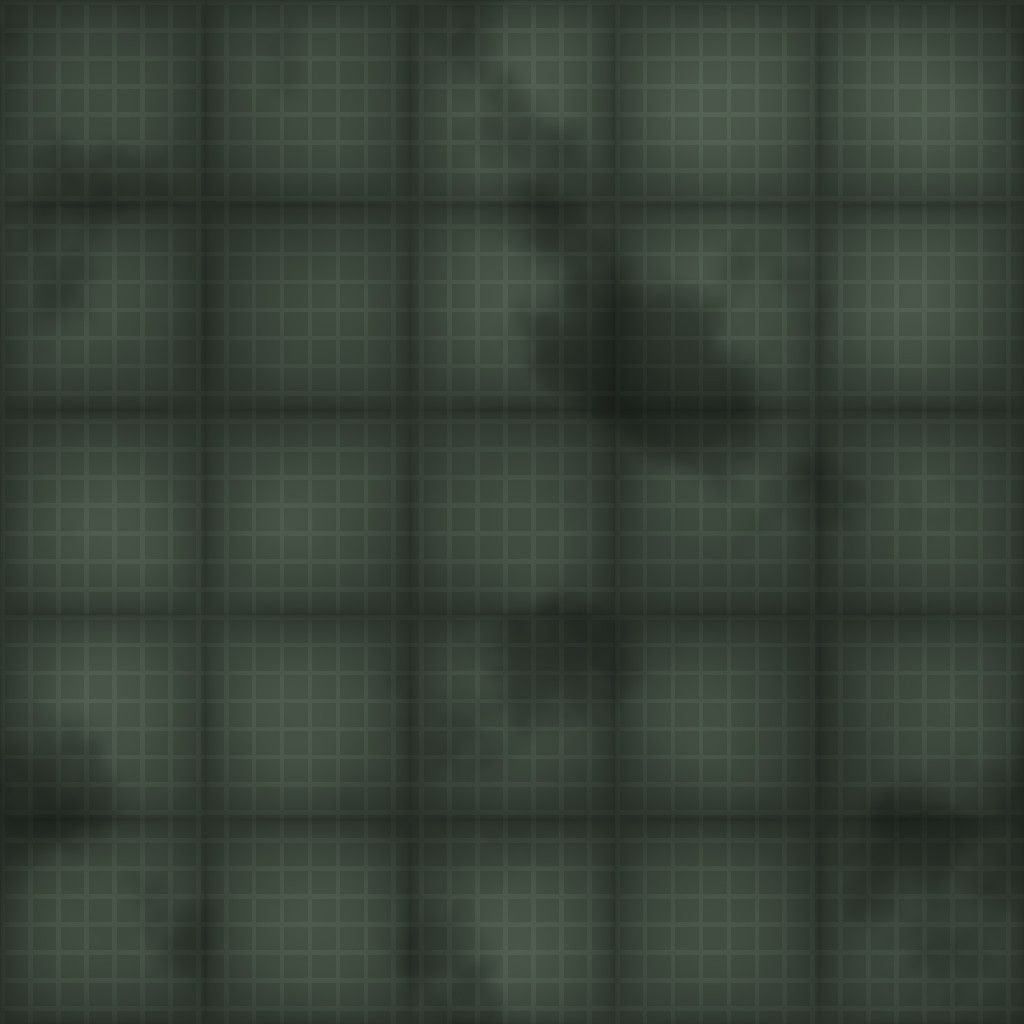
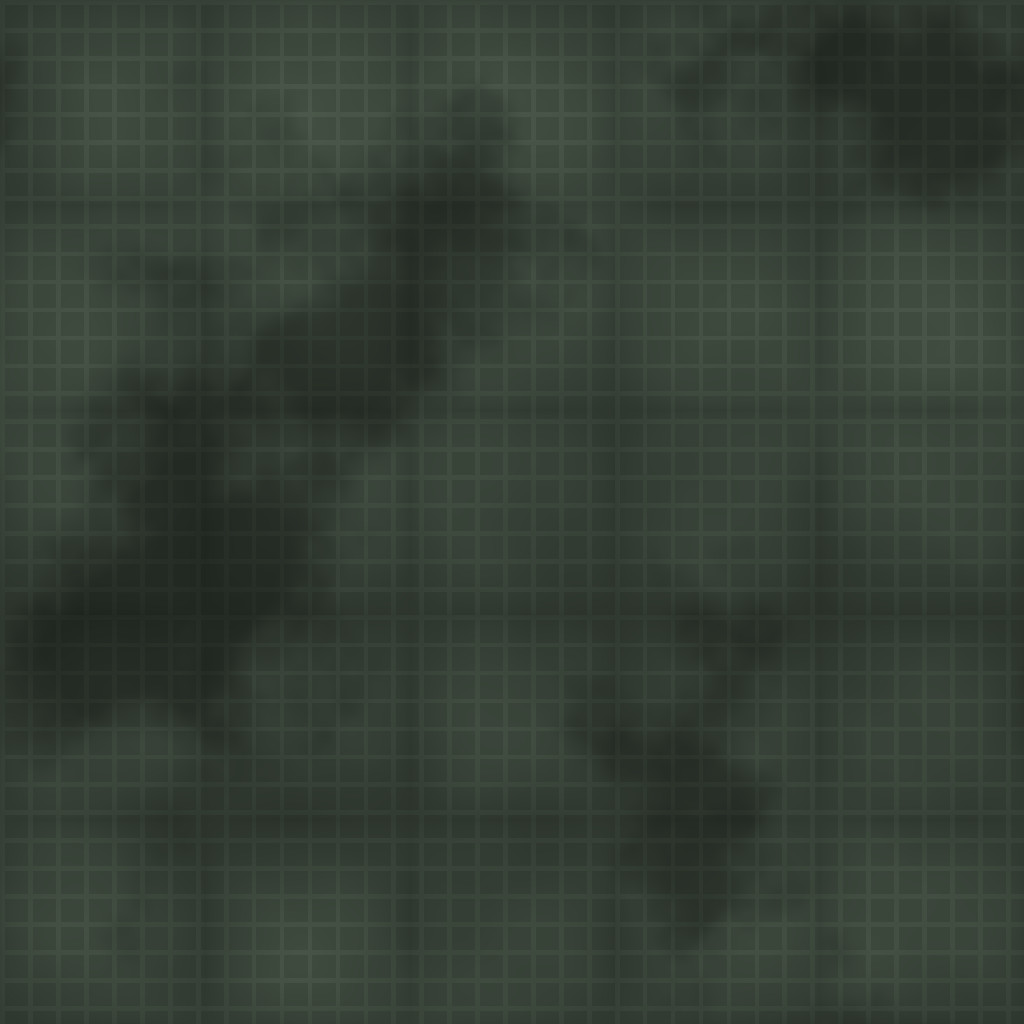
Docs, production build, resume support, character polish, font fixes
Claude-Session: https://claude.ai/code/session_01GHfF2m2v4uaf2dWEFkcrk5

diff --git a/game/src/chars/humanoid.js b/game/src/chars/humanoid.js
@@ -64,6 +64,19 @@ function skinnedTube({ path, radii, seg = 16, bones, boneIndex, sigma = 0.06, re
   return g;
 }
 
+const plaidCache = {};
+/** a soft flannel plaid: broad bands over a brushed weave, nothing like a grid */
+function plaidMaterial(color) {
+  if (plaidCache[color]) return plaidCache[color].clone();
+  const c = document.createElement('canvas'); c.width = c.height = 256; const x = c.getContext('2d'); const base = new THREE.Color(color); const css = (k) => `rgb(${Math.round(Math.min(1, base.r * k) * 255)},${Math.round(Math.min(1, base.g * k) * 255)},${Math.round(Math.min(1, base.b * k) * 255)})`;
+  x.fillStyle = css(1); x.fillRect(0, 0, 256, 256);
+  for (const [pos, wd, k, al] of [[40, 54, 0.62, 0.55], [168, 30, 0.7, 0.5], [112, 10, 1.3, 0.35]]) { x.fillStyle = css(k); x.globalAlpha = al; x.fillRect(pos, 0, wd, 256); x.fillRect(0, pos, 256, wd); }
+  x.globalAlpha = 1; x.strokeStyle = 'rgba(255,240,220,0.18)'; x.lineWidth = 2; for (const p of [20, 96, 150, 220]) { x.beginPath(); x.moveTo(p, 0); x.lineTo(p, 256); x.moveTo(0, p); x.lineTo(256, p); x.stroke(); }
+  const img = x.getImageData(0, 0, 256, 256); for (let i = 0; i < img.data.length; i += 4) { const n = (Math.random() - 0.5) * 16; img.data[i] += n; img.data[i + 1] += n; img.data[i + 2] += n; } x.putImageData(img, 0, 0);
+  const t = new THREE.CanvasTexture(c); t.colorSpace = THREE.SRGBColorSpace; t.wrapS = t.wrapT = THREE.RepeatWrapping; t.anisotropy = 4;
+  const m = new THREE.MeshStandardMaterial({ map: t, roughness: 0.93, color: 0xcfc4bc }); plaidCache[color] = m; return m.clone();
+}
+
 export class Humanoid {
   /**
    * opts: { kind:'jo'|'searcher'|'mara', outfit:'flannel'|'tee'|'parka', shirt, pants, skin, boots, hood:bool, wet:0..1 }
@@ -109,7 +122,7 @@ export class Humanoid {
 
     // face first (its skin material is shared by neck / forearms / hands)
     this.face = buildHead(this.kind, opts.face || {});
-    this.headBone.add(this.face.root); this.face.root.position.set(0, 0.092, 0.012); this.face.root.scale.setScalar(1.13);
+    this.headBone.add(this.face.root); this.face.root.position.set(0, 0.088, 0.012); this.face.root.scale.setScalar(this.kind === 'searcher' ? 1.16 : 1.24);
     this.buildMeshes();
     if (opts.hood) this.buildHood();
     // hands
@@ -141,8 +154,8 @@ export class Humanoid {
     const ring = (y, rx, rz, zo = 0) => ({ p: V(0, y, zo), r: [rx * puff, rz * puff] });
     const sh = B.shoulder;
     const t = [ring(hipsY - 0.08 * H, B.hip[0] * 0.95, B.hip[1] * 0.98), ring(hipsY, B.hip[0], B.hip[1]), ring(hipsY + 0.08 * H, B.waist[0], B.waist[1], 0.003), ring(hipsY + 0.17 * H, B.waist[0] * 1.04, B.waist[1] * 1.02),
-      ring(chestY + 0.0, B.chest[0] * 1.0, B.chest[1] * 1.06, 0.006), ring(chestY + 0.08 * H, B.chest[0] * 1.06, B.chest[1] * 1.06, 0.004), ring(neckY - 0.07 * H, sh * 0.98, B.chest[1] * 0.92),
-      ring(neckY - 0.035 * H, sh * 0.78, B.chest[1] * 0.78), ring(neckY - 0.005 * H, B.neck * 2.0, B.neck * 1.45), ring(neckY + 0.012, B.neck * 1.3 * puff * 0.92, B.neck * 1.2 * puff * 0.9)];
+      ring(chestY + 0.0, B.chest[0] * 1.0, B.chest[1] * 1.06, 0.006), ring(chestY + 0.08 * H, B.chest[0] * 1.06, B.chest[1] * 1.06, 0.004), ring(neckY - 0.07 * H, sh * 0.88, B.chest[1] * 0.92),
+      ring(neckY - 0.035 * H, sh * 0.66, B.chest[1] * 0.78), ring(neckY - 0.005 * H, B.neck * 2.0, B.neck * 1.45), ring(neckY + 0.012, B.neck * 1.3 * puff * 0.92, B.neck * 1.2 * puff * 0.9)];
     const torsoBones = [seg('hips', 'spine'), seg('spine', 'chest'), seg('chest', 'neck'), seg('neck', 'head')];
     const torsoGeo = skinnedTube({ path: t.map((x) => x.p), radii: t.map((x) => x.r), seg: 28, bones: torsoBones, boneIndex: bi, sigma: 0.07, ref: V(1, 0, 0), capEnds: false, uvTile: 0.45 });
     this.torso = this.skinMesh(torsoGeo, shirtMat);
@@ -159,8 +172,8 @@ export class Humanoid {
       const r0 = B.arm * puff * (type === 'parka' ? 1.25 : 1);
       const sleeveEnd = o.sleeveEnd ?? (type === 'tee' ? 0.38 : 1.0);
       const up = (f) => V().lerpVectors(sh, el, f), lo = (f) => V().lerpVectors(el, wr, f);
-      const pts = [sh.clone().add(V(-s * 0.075, 0.02, 0)), sh.clone().add(V(-s * 0.02, 0.012, 0)), up(0.12), up(0.5), up(0.92), el.clone(), lo(0.12), lo(0.5), lo(0.9), wr.clone()];
-      const rad = [[r0 * 1.2, r0 * 1.2], [r0 * 1.22, r0 * 1.2], [r0 * 1.12, r0 * 1.08], [r0 * 1.02, r0 * 1.0], [r0 * 0.94, r0 * 0.93], [r0 * 0.9, r0 * 0.9], [r0 * 0.9, r0 * 0.88], [r0 * 0.78, r0 * 0.75], [r0 * 0.66, r0 * 0.64], [r0 * 0.6, r0 * 0.58]];
+      const pts = [sh.clone().add(V(-s * 0.05, 0.012, 0)), sh.clone().add(V(-s * 0.012, 0.008, 0)), up(0.12), up(0.5), up(0.92), el.clone(), lo(0.12), lo(0.5), lo(0.9), wr.clone()];
+      const rad = [[r0 * 1.0, r0 * 1.0], [r0 * 1.12, r0 * 1.1], [r0 * 1.12, r0 * 1.08], [r0 * 1.02, r0 * 1.0], [r0 * 0.94, r0 * 0.93], [r0 * 0.9, r0 * 0.9], [r0 * 0.9, r0 * 0.88], [r0 * 0.78, r0 * 0.75], [r0 * 0.66, r0 * 0.64], [r0 * 0.6, r0 * 0.58]];
       const cut = Math.max(2, Math.round(pts.length * sleeveEnd));
       const cloth = skinnedTube({ path: pts.slice(0, cut), radii: rad.slice(0, cut), seg: 14, bones: aBones, boneIndex: bi, sigma: 0.05, ref: V(1, 0, 0), capEnds: false, uvTile: 0.4 });
       this.skinMesh(cloth, shirtMat);
@@ -195,7 +208,7 @@ export class Humanoid {
   getSkinMat() { if (!this._bodySkin) { this._bodySkin = this.face.skin.clone(); this._bodySkin.vertexColors = false; this._bodySkin.needsUpdate = true; } return this._bodySkin; }
   makeShirt() {
     const o = this.opts; const type = o.outfit || 'flannel';
-    if (type === 'flannel') { const m = pbr('fabric_wool', { key: 'flan' + (o.shirt || ''), tint: o.shirt ?? 0xc27a62, normal: 1.0 }).clone(); m.roughness = 0.92; return m; }
+    if (type === 'flannel') { return plaidMaterial(o.shirt ?? 0xc27a62); }
     if (type === 'raincoat') { const m = solid(o.shirt ?? 0xe8b81c, { rough: 0.38 }).clone(); return m; }
     if (type === 'tee') { const m = solid(o.shirt ?? 0xe8e2d0, { rough: 0.9 }).clone(); return m; }
     if (type === 'parka') { const m = pbr('parka', { key: 'parkaN', tint: 0x55604f, normal: 1.4, wet: 0.7 }).clone(); m.roughness = 0.5; m.color.setRGB(0.9, 0.95, 0.88); return m; }
@@ -210,7 +223,7 @@ export class Humanoid {
     const p = hg.attributes.position;
     for (let i = 0; i < p.count; i++) { const z = p.getZ(i), y = p.getY(i); p.setZ(i, z * 1.18 - 0.02); p.setY(i, y * 1.12); if (z > 0.06 && y < 0.1) { p.setZ(i, z * 1.25 + 0.03); } }
     hg.computeVertexNormals();
-    const mat = this.torso.material.clone(); mat.side = THREE.DoubleSide;
+    const mat = solid(0x424b3f, { rough: 0.7 }).clone(); mat.side = THREE.DoubleSide;
     const hood = new THREE.Mesh(hg, mat); hood.position.set(0, 0.095, -0.01); hood.castShadow = true; this.headBone.add(hood); this.hood = hood;
     // dark void inside so the face reads as "not there"
     const inner = new THREE.Mesh(new THREE.SphereGeometry(0.1, 20, 14), new THREE.MeshBasicMaterial({ color: 0x030405 })); inner.scale.set(0.9, 1.15, 0.9); inner.position.set(0, 0.095, 0.02); inner.visible = false; this.headBone.add(inner); this.hoodVoid = inner;

diff --git a/game/src/levels/loop.js b/game/src/levels/loop.js
@@ -64,7 +64,7 @@ export class Loop extends Chapter {
   buildParty(B, game, M) {
     const G = LOOPG, rng = new RNG(5);
     // the banner across the hall: HAPPY BIRTHDAY MAR
-    const bt = canvasTex(1024, 128, (c, w, h) => { c.clearRect(0, 0, w, h); const txt = 'HAPPY BIRTHDAY MAR'; const cols = ['#d94a3a', '#e8b81c', '#4a7ac8', '#4aa86a', '#c85aa0']; c.font = "700 74px 'Special Elite', monospace"; c.textAlign = 'center'; c.textBaseline = 'middle'; let x = 56; for (let i = 0; i < txt.length; i++) { const ch = txt[i]; if (ch === ' ') { x += 30; continue; } c.fillStyle = cols[i % cols.length]; c.fillText(ch, x, 66 + Math.sin(i * 0.7) * 6); x += 52; } });
+    const bt = canvasTex(1024, 128, (c, w, h) => { c.clearRect(0, 0, w, h); const txt = 'HAPPY BIRTHDAY MAR'; const cols = ['#d94a3a', '#e8b81c', '#4a7ac8', '#4aa86a', '#c85aa0']; c.font = "700 74px Elite, monospace"; c.textAlign = 'center'; c.textBaseline = 'middle'; let x = 56; for (let i = 0; i < txt.length; i++) { const ch = txt[i]; if (ch === ' ') { x += 30; continue; } c.fillStyle = cols[i % cols.length]; c.fillText(ch, x, 66 + Math.sin(i * 0.7) * 6); x += 52; } });
     const ban = new THREE.Mesh(new THREE.PlaneGeometry(3.0, 0.4), new THREE.MeshStandardMaterial({ map: bt, transparent: true, side: THREE.DoubleSide, roughness: 0.8 })); ban.position.set(0, 2.15, 9.0); game.root.add(ban); this.banner = ban;
     const cord = new THREE.Mesh(new THREE.CylinderGeometry(0.006, 0.006, 3.1, 4), solid(0xd8d0c0)); cord.rotation.z = Math.PI / 2; cord.position.set(0, 2.38, 9.0); game.root.add(cord);
     // balloons: clusters in the corners and floating at the ceiling
@@ -111,7 +111,7 @@ export class Loop extends Chapter {
     const pop = new THREE.Mesh(new THREE.CircleGeometry(0.08, 24), new THREE.MeshStandardMaterial({ color: 0x111111, transparent: true, opacity: 0.35, side: THREE.DoubleSide })); pop.position.set(0, 0.78, 0.1); mic.add(pop);
     chair(B, 0, -16.4, Math.PI, { mat: M.wood, cushion: M.red });
     const red = new THREE.Mesh(new THREE.BoxGeometry(0.34, 0.12, 0.03), new THREE.MeshStandardMaterial({ color: 0x300000, emissive: 0xff1a1a, emissiveIntensity: 1.2 })); red.position.set(0, 2.2, z1 - 0.02); red.rotation.y = 0; game.root.add(red); this.recLamp = red;
-    const rt = new THREE.Mesh(new THREE.PlaneGeometry(0.3, 0.06), new THREE.MeshBasicMaterial({ map: canvasTex(256, 48, (c, w, h) => { c.fillStyle = '#220000'; c.fillRect(0, 0, w, h); c.fillStyle = '#ff6a5a'; c.font = "700 30px 'Special Elite', monospace"; c.textAlign = 'center'; c.fillText('RECORDING', w / 2, 34); }) })); rt.position.set(0, 2.2, z1 + 0.0 + 0.0 - 0.0); rt.position.z = z0 + 0.12; rt.rotation.y = 0; game.root.add(rt);
+    const rt = new THREE.Mesh(new THREE.PlaneGeometry(0.3, 0.06), new THREE.MeshBasicMaterial({ map: canvasTex(256, 48, (c, w, h) => { c.fillStyle = '#220000'; c.fillRect(0, 0, w, h); c.fillStyle = '#ff6a5a'; c.font = "700 30px Elite, monospace"; c.textAlign = 'center'; c.fillText('RECORDING', w / 2, 34); }) })); rt.position.set(0, 2.2, z1 + 0.0 + 0.0 - 0.0); rt.position.z = z0 + 0.12; rt.rotation.y = 0; game.root.add(rt);
     this.boothLight = game.lights.add({ pos: [0, 2.0, -17.5], color: 0xff6a4a, intensity: 5, distance: 6, tag: 'booth', decay: 1.8, shadow: false, on: false });
     this.boothDesk = game.lights.add({ pos: [0.2, 1.2, -17.6], color: 0xffd9a0, intensity: 3, distance: 4, tag: 'booth', decay: 1.9, shadow: false, on: false });
     // the phone

diff --git a/game/src/story/draw.js b/game/src/story/draw.js
@@ -213,7 +213,7 @@ export function owlKeys(ctx, w, h) {
 export function flyer(ctx, w, h) {
   paperFill(ctx, w, h, '#efe9d8');
   ctx.fillStyle = '#161616'; ctx.textAlign = 'center';
-  ctx.font = "900 150px 'Special Elite', Impact, monospace"; ctx.fillText('MISSING', w / 2, 170);
+  ctx.font = "900 150px Elite, Impact, monospace"; ctx.fillText('MISSING', w / 2, 170);
   // halftone portrait
   const px = w / 2 - 210, py = 205, pw = 420, ph = 470; const step = 7;
   const rr = (() => { let a = 99; return () => (a = (a * 16807) % 2147483647) / 2147483647; })();
@@ -230,14 +230,14 @@ export function flyer(ctx, w, h) {
     if (r > 0.4) { ctx.beginPath(); ctx.arc(px + x, py + y, r, 0, 7); ctx.fill(); }
   }
   ctx.strokeStyle = '#161616'; ctx.lineWidth = 5; ctx.strokeRect(px - 4, py - 4, pw + 8, ph + 8);
-  ctx.font = "700 44px 'Special Elite', monospace"; ctx.fillText('JONAH “JO” LINDEN, 22', w / 2, 735);
-  ctx.font = "26px 'Special Elite', monospace";
+  ctx.font = "700 44px Elite, monospace"; ctx.fillText('JONAH “JO” LINDEN, 22', w / 2, 735);
+  ctx.font = "26px Elite, monospace";
   ['Last seen Mon. Feb 11, about 3 AM,', 'north bay, Halden Lake. 5′11″, brown curly hair.', 'Yellow rain jacket. Hums when he walks.', 'He is not in any trouble. He is just late.'].forEach((t, i) => ctx.fillText(t, w / 2, 785 + i * 36));
-  ctx.font = "600 34px 'Special Elite', monospace"; ctx.fillText('Call Mara — 555 0143', w / 2, 960);
+  ctx.font = "600 34px Elite, monospace"; ctx.fillText('Call Mara — 555 0143', w / 2, 960);
   // hand-written, later, in a different pen
   ctx.fillStyle = '#26358a'; ctx.font = "34px Caveat, cursive"; ctx.save(); ctx.translate(w / 2, 1005); ctx.rotate(-0.02); ctx.fillText('(porch light is on)', 0, 0); ctx.restore();
   // tear-off tabs, all gone but one
-  ctx.fillStyle = '#161616'; const tw = (w - 60) / 8; ctx.font = "16px 'Special Elite', monospace";
+  ctx.fillStyle = '#161616'; const tw = (w - 60) / 8; ctx.font = "16px Elite, monospace";
   for (let i = 0; i < 8; i++) { const x0 = 30 + i * tw; ctx.strokeStyle = '#555'; ctx.setLineDash([5, 5]); ctx.beginPath(); ctx.moveTo(x0, 1030); ctx.lineTo(x0, h); ctx.stroke(); ctx.setLineDash([]);
     if (i === 5) { ctx.save(); ctx.translate(x0 + tw / 2, 1085); ctx.rotate(-Math.PI / 2); ctx.fillText('MARA 555 0143', 0, 0); ctx.restore(); } else { ctx.fillStyle = '#d9d2bd'; ctx.fillRect(x0 + 2, 1032, tw - 4, h - 1032); ctx.fillStyle = '#161616'; } }
   ctx.textAlign = 'left';

diff --git a/game/src/story/lodgeStory.js b/game/src/story/lodgeStory.js
@@ -24,6 +24,8 @@ export class LodgePhase {
     g.wait(1.2).then(() => { L.doors.front.toggle(false); g.audio.sfx('door_close', { pos: V(-0.3, 1.2, 5.5), vol: 0.7 }); });
     g.ui.objective('Find Jo.');
     if (opts.skipTo) { this.skipTo(opts.skipTo); return; }
+    if (opts.resumeAt) { this.restore(); return; }
+    g.saveCheckpoint('lodge:start', { x: -0.3, y: 0, z: 4.2, yaw: Math.PI });
     await g.wait(2.5);
     await w.think('Jo?');
     await g.wait(1.0);
@@ -279,6 +281,15 @@ export class LodgePhase {
   leaveHouse() {
     const w = this.w, g = this.g; if (this.fired.leave) return; this.fired.leave = true;
     g.wait(2.2).then(() => { w.setPhase('search'); });
+  }
+
+  /** coming back from a save: the house as she left it */
+  restore() {
+    const g = this.g, w = this.w, L = w.lodge, F = g.flags, G = w.ground;
+    if (F.joKey) L.doors.jo.unlock(); if (F.studyKey) L.doors.study.unlock(); if (F.backKey) L.doors.back.unlock();
+    if (F.memory1Done) this.memory1Done = true; if (F.sawScore) this.fired.score = true; if (F.intrusionSurvived) this.fired.intrusionStarted = true; if (F.phoneAnswered) this.fired.study = true;
+    L.doors.front.toggle(false); for (const l of [G.lamps.hall, G.lamps.livingFloor]) l && l.set(true);
+    g.ui.objective(F.backKey ? 'The back door. Then the trail to the boathouse.' : (F.tinOpen ? 'The back door.' : (F.studyKey ? 'Dad’s study.' : (F.intrusionSurvived ? 'Play Jo’s tune on the piano.' : (F.joKey ? 'Jo’s room.' : (this.memory1Done ? 'Look in the cookie jar.' : 'Find Jo.'))))), true);
   }
 
   skipTo(step) {

diff --git a/game/src/story/finale.js b/game/src/story/finale.js
@@ -36,9 +36,19 @@ export class FinalPhase {
     g.hands.hold('L', null); g.hands.holdFlashlight(); g.lights.flashOn = false;
     g.ui.chapterCard('VII', 'GOODBYE', '', 4);
     g.fadeTo(0, 7, 0xfff3d8);
+    const rid = opts.resumeAt && opts.resumeAt.id;
+    if (rid === 'final:dock' || rid === 'final:gift') { this.fastForward(rid, opts.resumeAt); return; }
     await g.wait(5);
     g.ui.objective('The end of the dock.');
     this.stage = 'walk';
+  }
+
+  /** from a save: Jo has gone, the lantern is out, she is walking home */
+  fastForward(rid, at) {
+    const w = this.w, g = this.g, P = g.player; this.fired.talk = true; this.jo.root.visible = false; this.stage = 'home'; P.canRun = true; P.walkMul = 0.9; this.setupPorch();
+    P.teleport(at.x, at.y ?? 0, at.z, at.yaw ?? 0);
+    if (rid === 'final:gift') { w.porch.set(false); this.fired.porch = true; const G = w.ground; [G.lamps.hall, G.lamps.kitchen, G.lamps.livingFloor, G.lamps.livingTable].filter(Boolean).forEach((l) => l.set(true)); this.boxHeard = true; this.setupInside(); g.ui.objective('Dad’s piano.', true); this.giftIt && this.giftIt.remove(); }
+    else g.ui.objective('Go up to the house.', true);
   }
 
   // ------------------------------------------------------------------------------------------------------------------------

diff --git a/game/src/story/notes.js b/game/src/story/notes.js
@@ -97,7 +97,7 @@ export const NOTES = {
   },
   clipping: {
     kind: 'note', style: 'print', rot: 1.3, list: 'Clipping — Halden Weekly',
-    html: `<h3 style="font-family:'IM Fell English',serif">SEARCH ON HALDEN LAKE SUSPENDED</h3>
+    html: `<h3 style="font-family:Fell,serif">SEARCH ON HALDEN LAKE SUSPENDED</h3>
       <p>After nine days and some 1,400 volunteer hours, the sheriff’s office announced Thursday that active efforts to locate Jonah Linden, 22, have ended. Linden was last seen February 11 near the north bay, where the lake’s ice is known to shift.</p>
       <p>Linden is the son of the late Walter Linden, a sound engineer who built the lakeside lodge. His sister, Mara Linden, 28, said she would “keep looking.” <i>Neighbours say the porch light at the Linden lodge has been left on every night since.</i></p>`,
   },

diff --git a/game/src/main.js b/game/src/main.js
@@ -16,6 +16,7 @@ addEventListener('pointerdown', unlock); addEventListener('keydown', unlock);
 window.__game = game;
 
 await game.init();
+try { await Promise.all(['16px Elite', '16px Cormorant', 'italic 16px Cormorant', '600 16px Cormorant', '500 16px Caveat', '600 16px Caveat', '16px Fell', 'italic 16px Fell'].map((f) => document.fonts.load(f))); } catch (e) { /* fonts are a nicety: canvas text falls back to serif */ }
 const q = new URLSearchParams(location.search);
 if (q.get('test') === 'lodge') { const { TestLodge } = await import('./levels/test_lodge.js'); await game.loadChapter(new TestLodge()); }
 else if (q.get('test') === 'halden') { const { Halden } = await import('./levels/halden.js'); await game.loadChapter(new Halden(q.get('phase') || 'prologue', { skipIntro: q.has('skipintro'), season: q.get('season') || 'winter' })); }

diff --git a/game/src/gfx/renderer.js b/game/src/gfx/renderer.js
@@ -274,7 +274,7 @@ export class Gfx {
     r.shadowMap.enabled = true;
     r.shadowMap.autoUpdate = true;
     r.setClearColor(0x05070a, 1);
-    this.info = r.info;
+    this.info = r.info; r.info.autoReset = false;   // accumulate over every pass of a frame; reset at the start of render()
     this.maxAniso = r.capabilities.getMaxAnisotropy();
 
     this.quad = new THREE.Mesh(new THREE.BufferGeometry(), null);
@@ -381,6 +381,7 @@ export class Gfx {
 
   // ---- frame ----------------------------------------------------------------------------------------------------
   render(scene, camera, dt, scatterDir) {
+    this.renderer.info.reset();
     const r = this.renderer, t = this.targets, p = this.p, fx = this.fx;
     this.time += dt;
     // grade easing

diff --git a/game/src/story/search.js b/game/src/story/search.js
@@ -23,6 +23,7 @@ export class SearchPhase {
     for (let i = 0; i < w.lampPosts.length; i++) if (g.flags['lamp' + i]) w.lampPosts[i].set(true);
     this.hi = g.flags.lampHi ?? -1;
     if (opts.skipTo) { this.skipTo(opts.skipTo); }
+    if (opts.resumeAt) { const lp = this.w.lampPosts[Math.max(0, this.hi)]; this.lastSafe = this.hi >= 0 ? { x: lp.pos.x, z: lp.pos.z + 1.6 } : null; if (this.hi >= 1) this.startPatrol(); g.ui.objective(g.flags.boatKey ? 'Follow the trail to the boathouse.' : 'Follow the trail to the boathouse.', true); if (g.flags.boathouseDone) { /* back from below? */ } }
     if (!opts.resumeAt && !opts.skipTo) {
       g.ui.chapterCard('II', 'THE SEARCH', 'Feb 11', 4.5);
       await g.wait(3.5);

diff --git a/game/src/levels/halden.js b/game/src/levels/halden.js
@@ -169,6 +169,7 @@ export class Halden extends Chapter {
     if (this.phaseObj && this.phaseObj.dispose) this.phaseObj.dispose();
     this.phaseName = name; this.game.flags.phase = name;
     const P = PHASES[name]; this.phaseObj = new P(this, opts); this.phaseObj.start(opts);
+    if (opts.resumeAt && opts.resumeAt.x !== undefined) { const r = opts.resumeAt; this.game.player.teleport(r.x, r.y ?? 0, r.z, r.yaw ?? 0); }
   }
   onLampLit(lp) { this.phaseObj && this.phaseObj.onLamp && this.phaseObj.onLamp(lp); this.checkpoint('lamp:' + lp.id, { x: lp.pos.x, z: lp.pos.z + 1.5 }); }
   checkpoint(id, at) { this.game.saveCheckpoint && this.game.saveCheckpoint(id, at); }

diff --git a/game/src/core/engine.js b/game/src/core/engine.js
@@ -170,7 +170,7 @@ export class Game extends Emitter {
   /** persist progress */
   saveCheckpoint(id, at) {
     const p = this.player;
-    this.lastCheckpoint = { id, x: at?.x ?? p.pos.x, z: at?.z ?? p.pos.z, y: at?.y, yaw: at?.yaw ?? p.yaw };
+    this.lastCheckpoint = { id, x: at?.x ?? p.pos.x, z: at?.z ?? p.pos.z, y: at?.y ?? p.pos.y, yaw: at?.yaw ?? p.yaw };
     if (this.noSave) return;
     Save.write({ phase: this.flags.phase, chapterId: this.chapterId, checkpoint: this.lastCheckpoint, flags: this.flags, journal: this.journal.serialize(), playTime: this.playTime });
   }

diff --git a/game/src/story/icehouseStory.js b/game/src/story/icehouseStory.js
@@ -21,7 +21,7 @@ export class IceHousePhase {
     g.audio.music.stopAll && g.audio.music.stopAll(1); g.audio.music.setDread(0.08);
     P.teleport(-2.4, 0, 0, -Math.PI / 2); P.pitch = 0.18; P.walkMul = 1; P.canRun = true;
     this.hookUp();
-    if (opts.resumeAt) this.restore(opts.resumeAt);
+    if (opts.resumeAt) { this.restore(opts.resumeAt); if (g.flags.heardVoicemail) { this.state = 'tapes'; g.wait(4).then(() => this.lightsDie()); } }
     g.fadeTo(0, 3.5, 0x000000);
     if (!opts.resumeAt) { g.ui.chapterCard('III', 'THE ICE HOUSE', '', 4.5); this.intro(); }
   }
